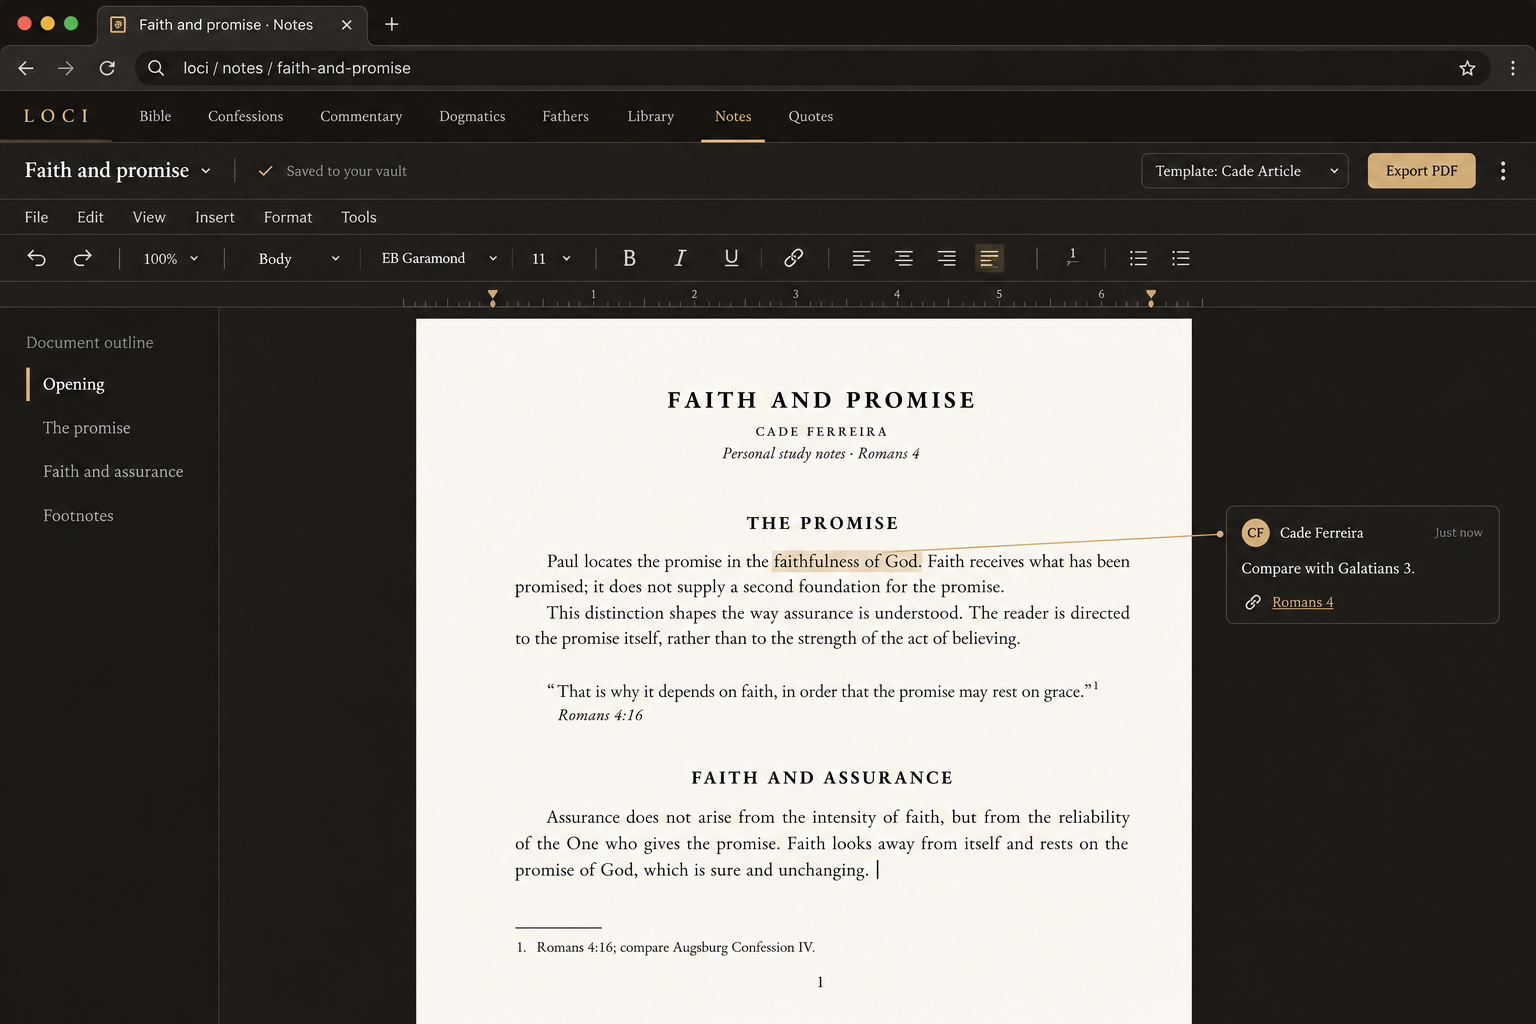
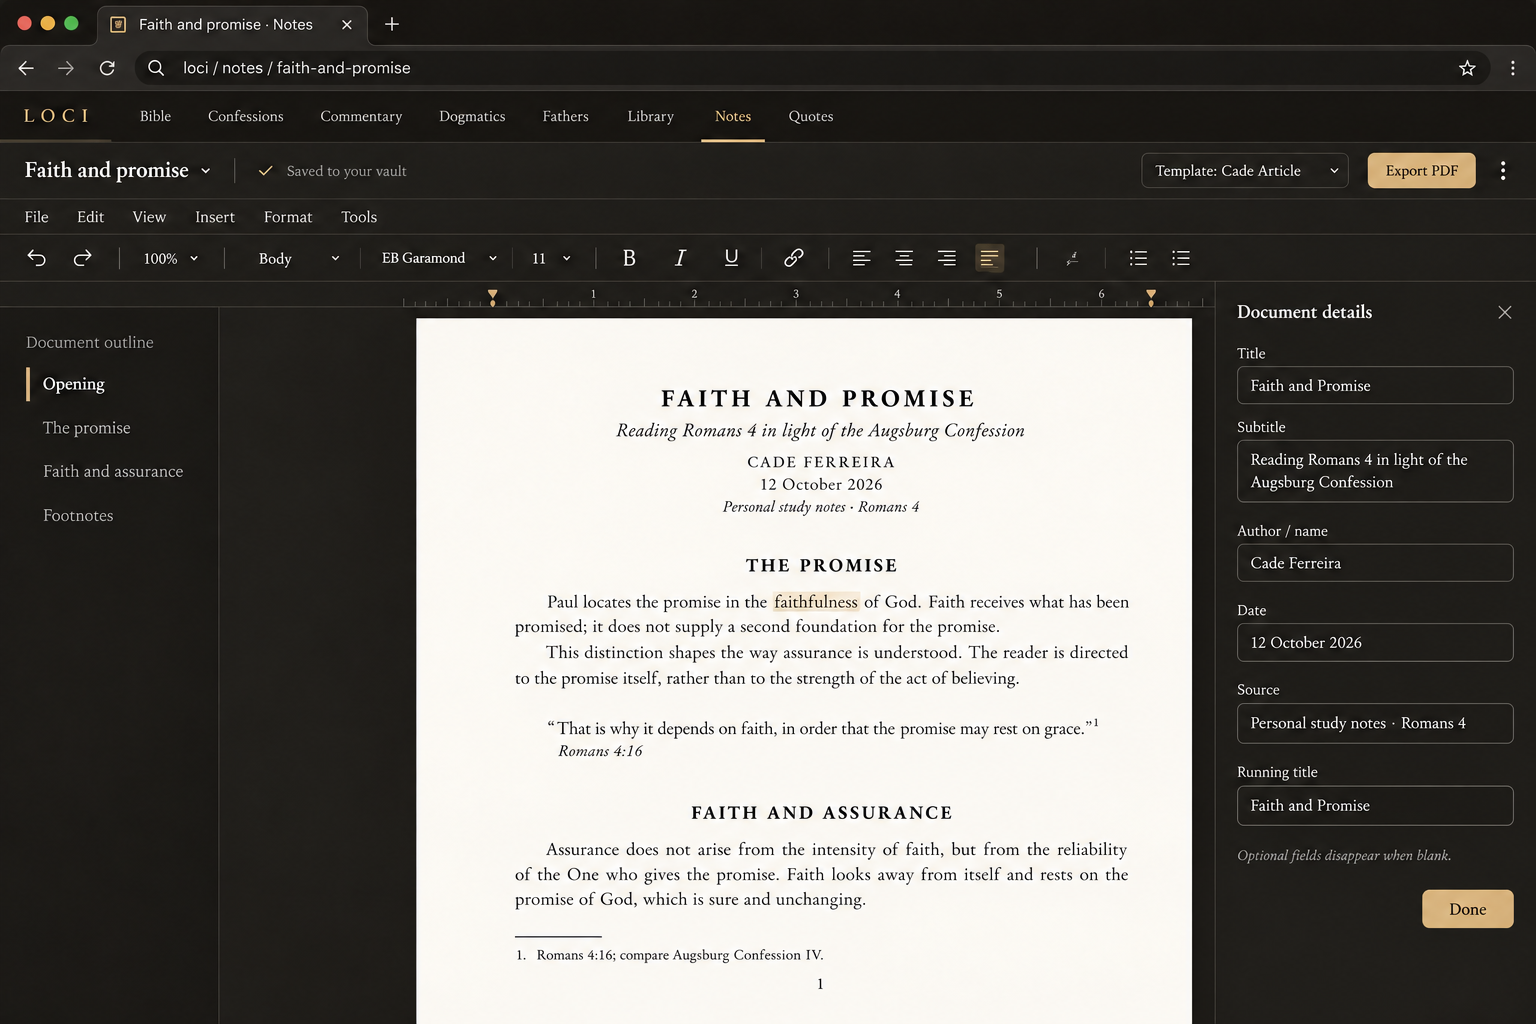
design: add note metadata fields and search home mockup

diff --git a/docs/mockups/cade-typeset/notes-template.tex b/docs/mockups/cade-typeset/notes-template.tex
@@ -2,10 +2,18 @@
 % Compile twice to resolve references. Uses local, licensed EB Garamond fonts.
 \documentclass[11pt]{article}
 \usepackage{cadearticle}
-\runninghead{FAITH AND PROMISE}
-\hypersetup{pdftitle={Faith and Promise},pdfauthor={Cade Ferreira}}
+% Edit these document fields. Leave optional values empty to omit their lines.
+% short-title is optional; the running header uses title when it is blank.
+\notesetup{
+  title={Faith and Promise},
+  subtitle={Reading Romans 4 in light of the Augsburg Confession},
+  author={Cade Ferreira},
+  date={12 October 2026},
+  source={Personal study notes · Romans 4},
+  short-title={Faith and Promise}
+}
 \begin{document}
-\opening{Faith and Promise}{Cade Ferreira}{Personal study notes · Romans 4}
+\noteopening
 
 \section{The Promise}
 Paul locates the promise in the faithfulness of God. Faith receives what has been promised; it does not supply a second foundation for the promise. These sample paragraphs demonstrate the note template rather than transcribe a published article.

diff --git a/docs/mockups/cade-typeset/README.md b/docs/mockups/cade-typeset/README.md
@@ -6,6 +6,7 @@ These proposals adapt the supplied Article Reformatting Toolkit to Loci's readin
 
 | Page | Direction | Mockup |
 | --- | --- | --- |
+| Search home | A prominent search field, collection links, recent reading, and recent notes in the same editorial style. | [View](home-search.png) |
 | Bible | A typeset reading page with embedded verse numbers and optional study sidebar. | [View](bible-typeset.png) |
 | Confessions | Publication typography, contents navigation, and contextual commentary. The reading pattern can also guide Dogmatics, Fathers, and Commentary. | [View](confessions-typeset.png) |
 | Library → Articles | An editorial bibliography with filters, indexing, and a document preview. | [View](library-typeset.png) |
@@ -16,7 +17,7 @@ These proposals adapt the supplied Article Reformatting Toolkit to Loci's readin
 
 - Page: 6 × 9 inches; left/right margins 0.9 inches, top 0.8 inches, bottom 0.9 inches.
 - Body: EB Garamond, 11 pt with 16 pt leading, justified paragraphs, 1.5 em first-line indents, no added paragraph gap.
-- Opening: centered bold capital title, 13.5/19 pt; small-cap author; smaller source line.
+- Note opening: centered bold capital title, 13.5/19 pt; optional italic subtitle, 11/16 pt; small-cap author/name; optional date and smaller source/publication line.
 - Section: centered bold capitals; subsection: smaller spaced capitals.
 - Quotations: inset on both sides, 10/14 pt; preserve original italics.
 - Footnotes: bottom of page, 9/11.5 pt, hanging numbers, short dividing rule.
@@ -32,9 +33,13 @@ Generated UI images approximate these typography rules. The compiled sample belo
 - [Editable LaTeX note template](notes-template.tex)
 - [Cade Article stylesheet](cadearticle.sty)
 
-The stylesheet comes from the supplied toolkit; its font declarations were adjusted to load the bundled font files. Page geometry and typography settings are preserved. EB Garamond font files come from the upstream octaviopardo/EBGaramond12 repository and retain the included SIL Open Font License.
+The stylesheet comes from the supplied toolkit; its font declarations were adjusted to load the bundled font files, and a note-specific metadata opening was added. Original article formatting and the three-argument article opening remain available. EB Garamond font files come from the upstream octaviopardo/EBGaramond12 repository and retain the included SIL Open Font License.
 
 To compile, run `xelatex -no-shell-escape notes-template.tex` twice from this directory. Replace the sample text, opening metadata, and source notes with your own material.
+
+Edit the `\notesetup{...}` block to set **title**, **subtitle**, **author/name**, **date**, **source/publication details**, and an optional **short-title**. Only the title is needed; blank optional fields collapse without leaving gaps. The title supplies the running header unless a short title is set. Title and author also supply the PDF metadata. Use `\noteopening` at the start of the document to render the opening block.
+
+In the proposed app editor these are document fields, edited through a **Document details** panel or by selecting the opening block on the page. The template controls their typography; the user supplies their contents. Hiding an optional field removes its line and spacing from both the editor and export.
 
 ## Notes editing proposal
 
